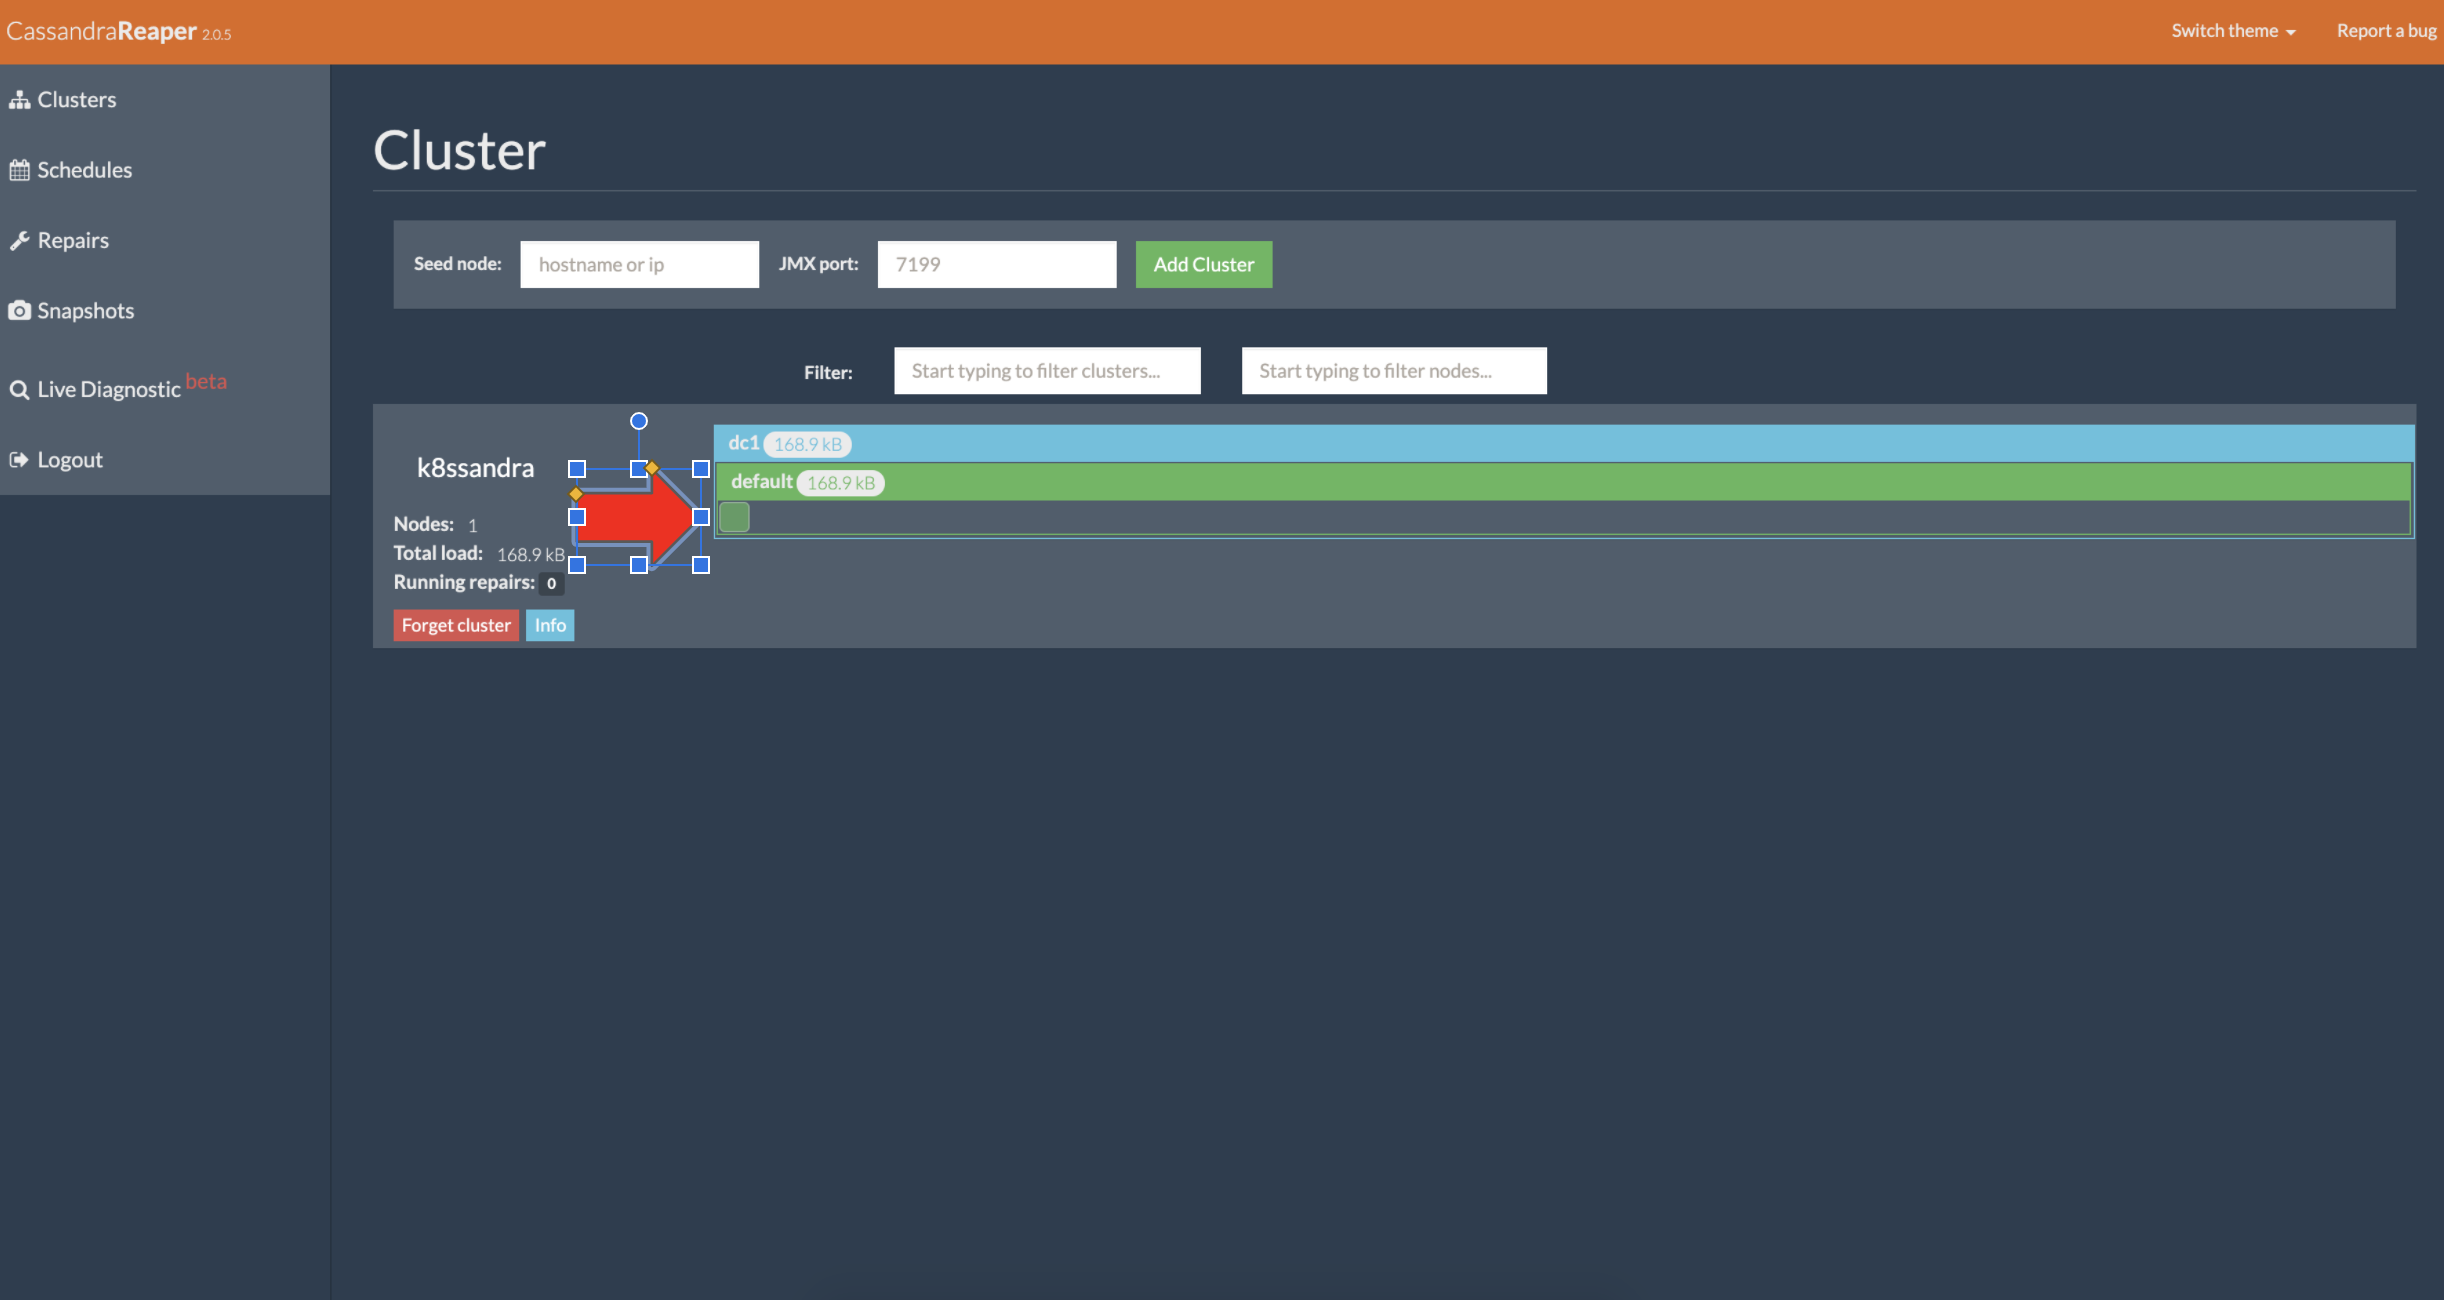
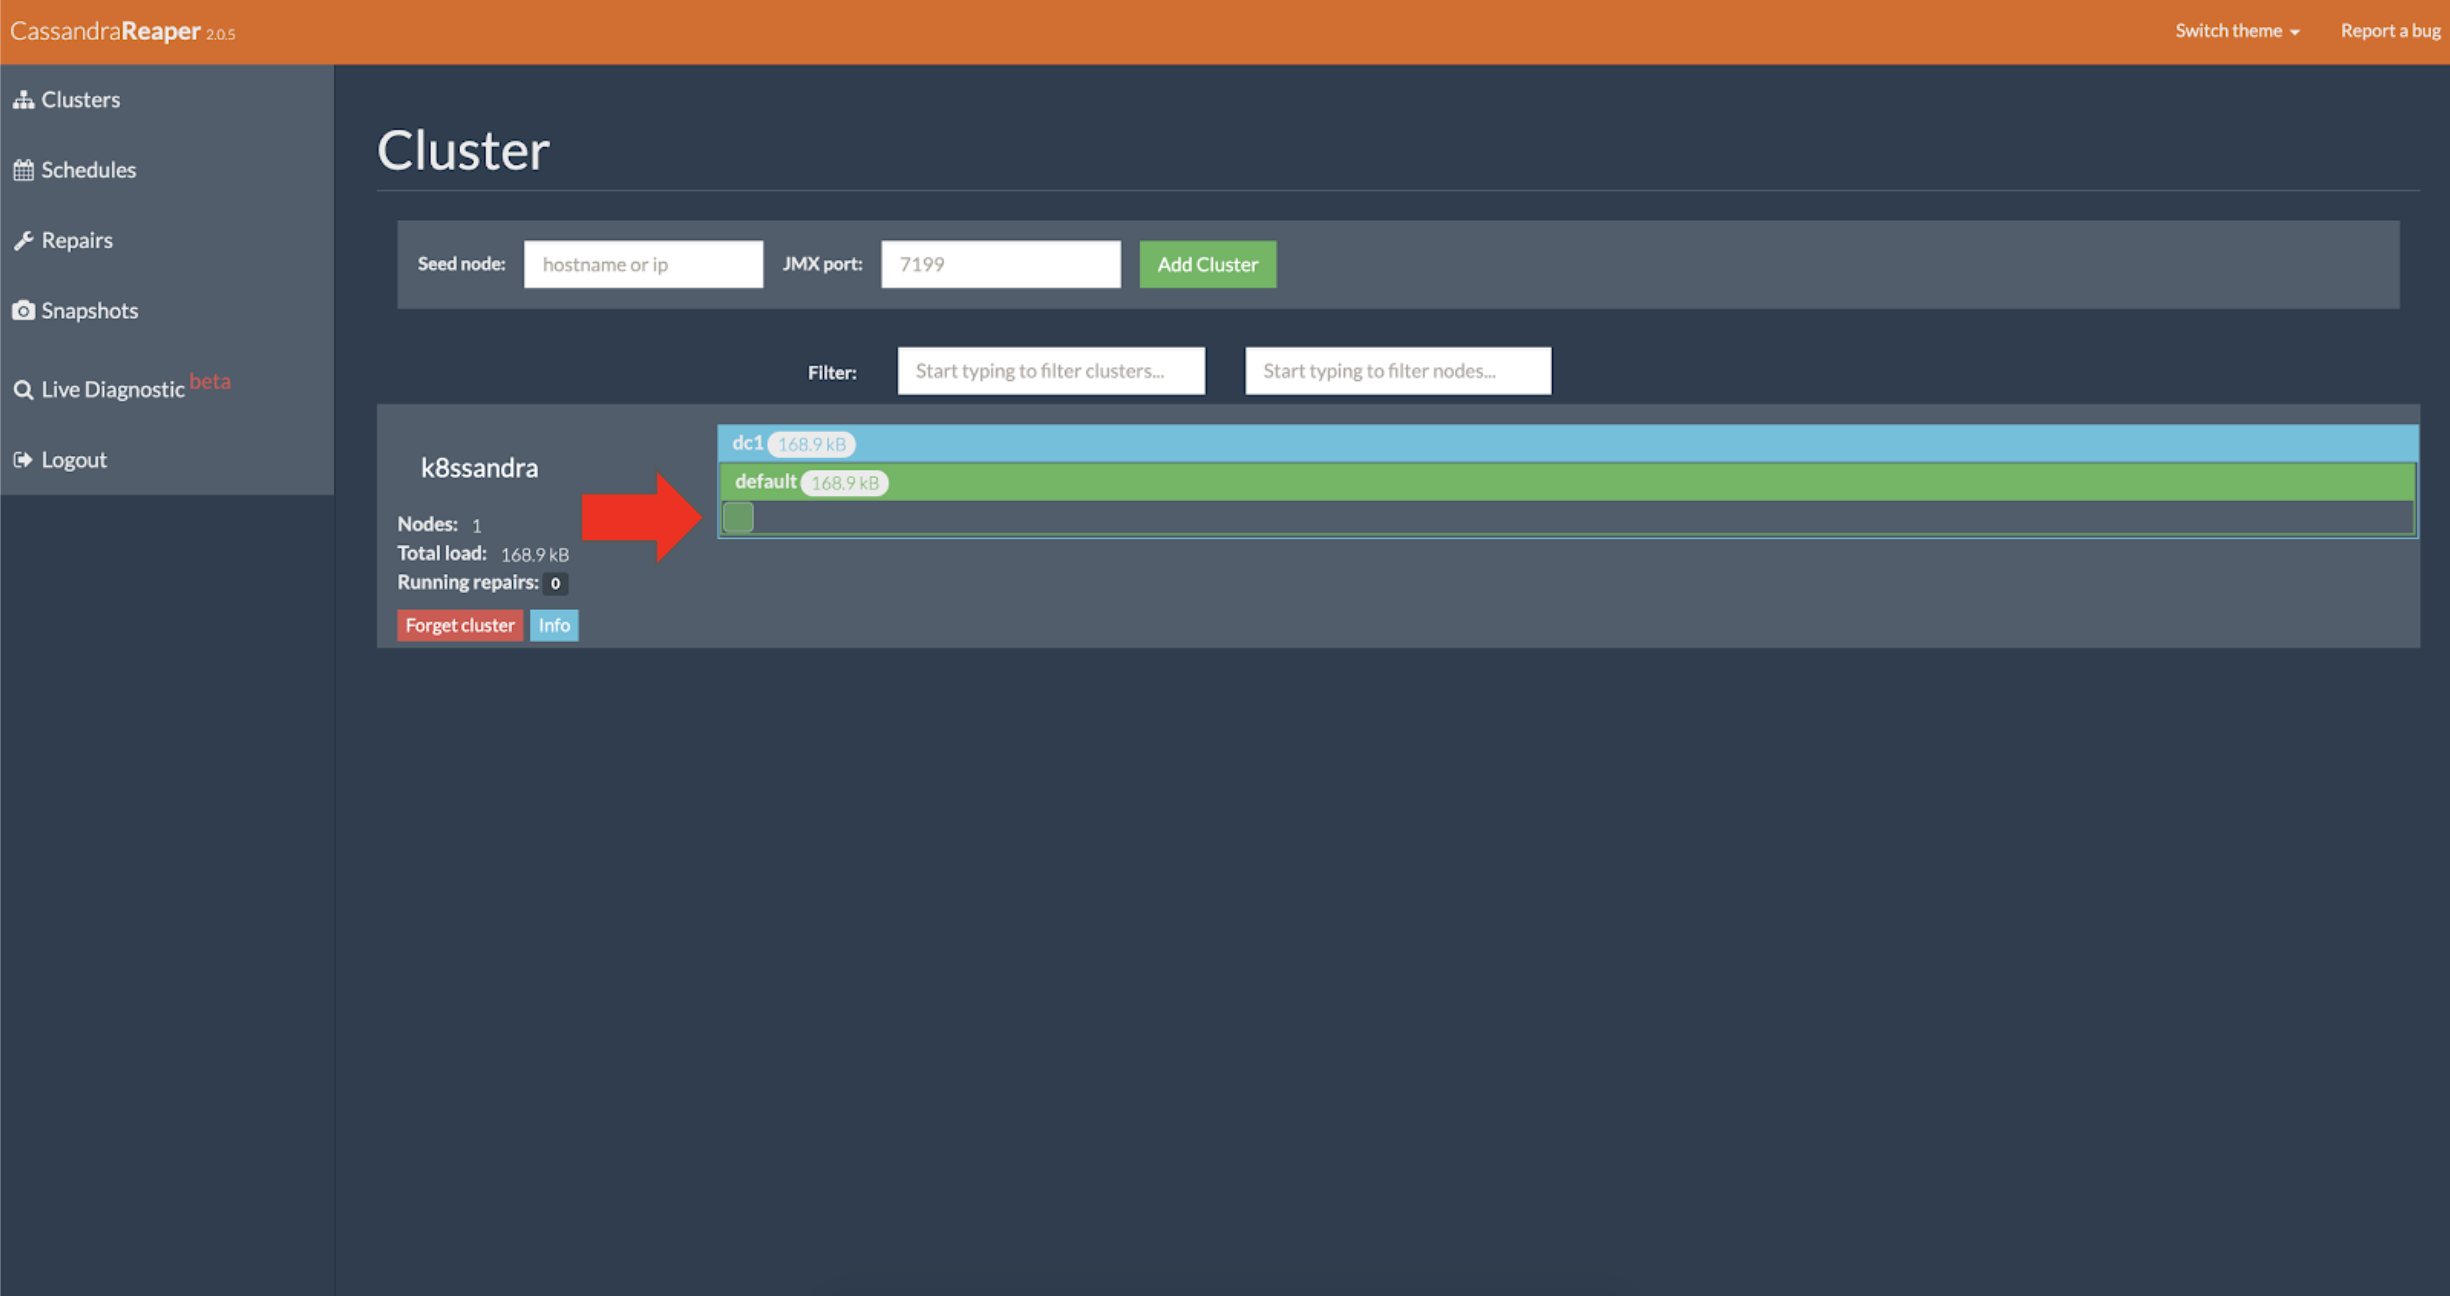
added in links for reaper images and fixed 2 images

diff --git a/README.md b/README.md
@@ -116,7 +116,7 @@ watch kubectl get pods
 
 Navigate to the petclinic link in your cloud instance page to interact with the pet clinic app.  If you have done everything correctly you should see the following.
 
-TODO local install To hit the UI navigate to localhost:8080
+If you are using your own infrastructure navigate to localhost:8080 to see the UI
 
 ![OK](https://github.com/DataStax-Academy/kubecon2020/blob/main/Images/petclinic1.png)
 
@@ -176,25 +176,33 @@ If you are running this locally then navigate to repair.localhost:8080/webui/
 
 Notice way that the nodes are displayed inside the datacenter for the cluster.
 
-TODO NEED PICTURE
+![OK](https://github.com/DataStax-Academy/kubecon2020/blob/main/Images/reaper1.png?raw=true)
 
 The color of the nodes indicates the overall load the nodes are experiencing at the current moment. 
 
 ### ✅  Schedule a cluster repair
 On the left hand side, notice the schedule menu option.
 
-TODO NEED PICTURE
 
-Click _Schedule_ and then set the time for once a week.  A Cassandra best practice is to have one repair complete per week to prevent zombie data from coming back after a deletion. 
+![OK](https://github.com/DataStax-Academy/kubecon2020/blob/main/Images/reaper2.png?raw=true)
 
-TODO NEED PICTURE
+Click _Schedule_
+
+
+![OK](https://github.com/DataStax-Academy/kubecon2020/blob/main/Images/reaper3.png?raw=true)
+
+Click _add schedule_ and fill out the details when you are done click the final _add schedule_ to apply the new repair job.  A Cassandra best practice is to have one repair complete per week to prevent zombie data from coming back after a deletion. 
+
+
+![OK](https://github.com/DataStax-Academy/kubecon2020/blob/main/Images/reaper4.png?raw=true)
 
 Notice the new repair added to the list.
 
 ### ✅  Run a cluster repair
 On the repair job you just configured, click the _Run now_ button.  
 
-TODO NEED PICTURE
+
+![OK](https://github.com/DataStax-Academy/kubecon2020/blob/main/Images/reaper5.png?raw=true)
 
 Notice the repair job kicking off.
 
